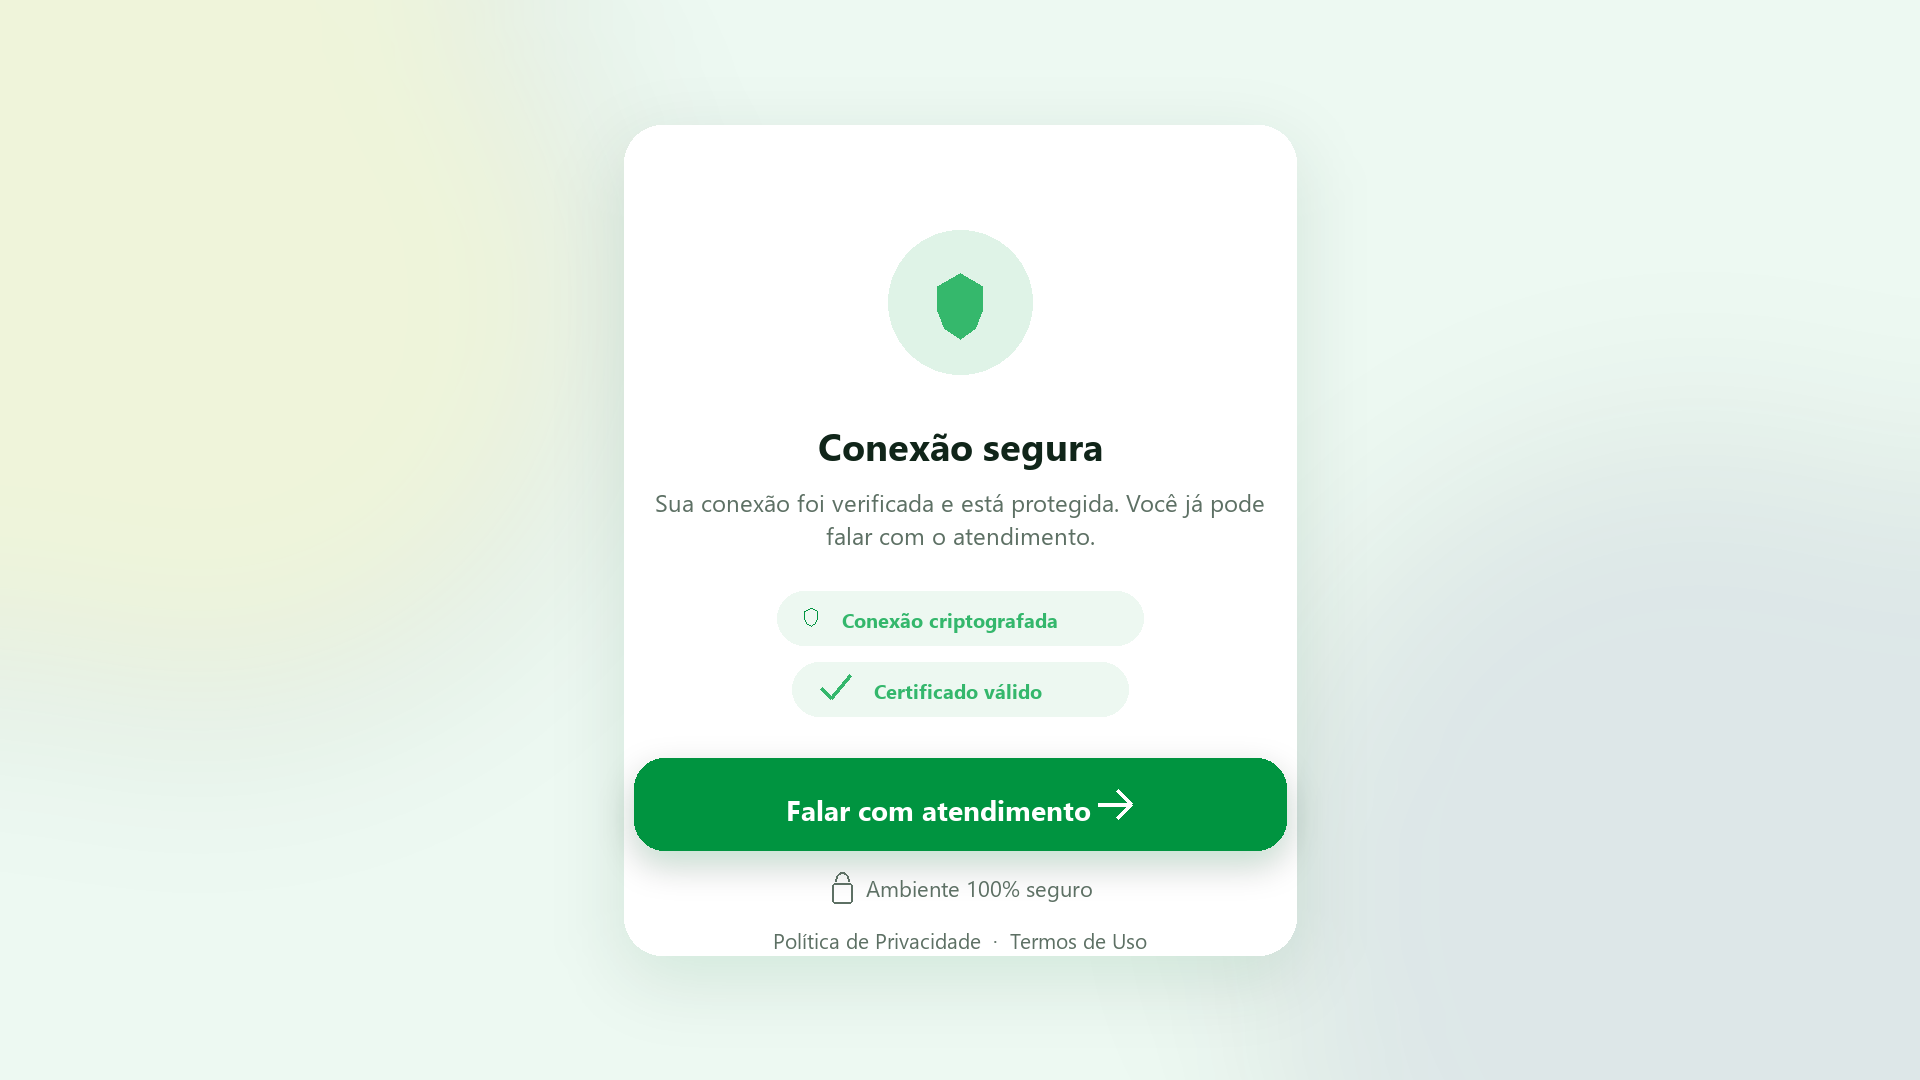
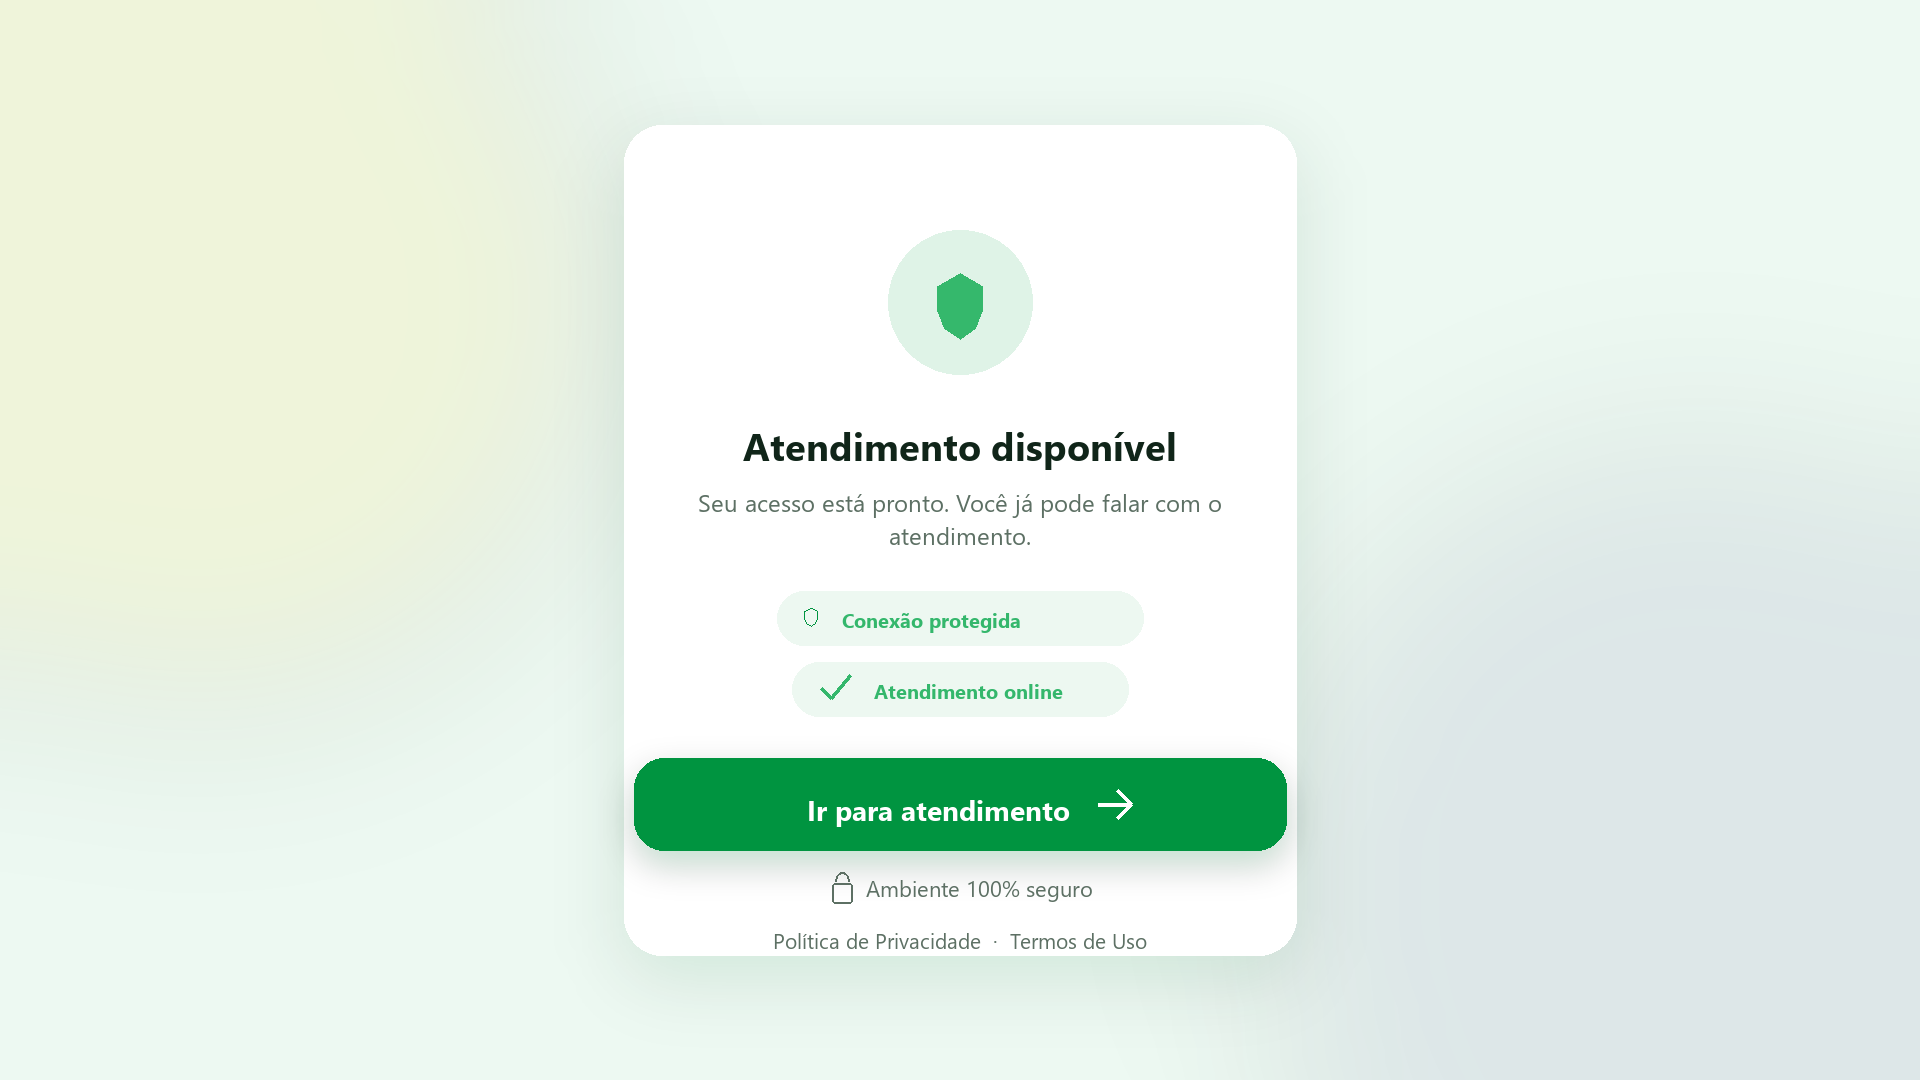
update

diff --git a/index.html b/index.html
@@ -4,7 +4,7 @@
     <meta charset="utf-8">
     <meta name="viewport" content="width=device-width, initial-scale=1">
     <meta name="theme-color" content="#009440">
-    <title>Atendimento Seguro</title>
+    <title>Atendimento seguro</title>
     <style>
       :root {
         --green: #009440;
@@ -38,10 +38,10 @@
 
       main {
         width: 100%;
-        min-height: 100vh;
+        min-height: 100svh;
         display: grid;
         place-items: center;
-        padding: 28px;
+        padding: clamp(18px, 4vw, 40px);
       }
 
       .panel {
@@ -71,8 +71,7 @@
         position: absolute;
         inset: 0;
         border-radius: 50%;
-        background:
-          conic-gradient(var(--green) 0deg 216deg, var(--mint) 216deg 360deg);
+        background: conic-gradient(var(--green) 0deg var(--progress, 216deg), var(--mint) var(--progress, 216deg) 360deg);
         animation: pulse 1.6s ease-in-out infinite;
       }
 
@@ -112,7 +111,6 @@
         max-width: 590px;
         font-size: clamp(32px, 5vw, 42px);
         line-height: 1.12;
-        letter-spacing: 0;
       }
 
       p {
@@ -157,7 +155,7 @@
         padding: 22px 28px;
         border-radius: 30px;
         color: var(--white);
-        background: linear-gradient(135deg, var(--green), #20b15a);
+        background: var(--green);
         box-shadow: 0 16px 30px rgba(0, 148, 64, 0.24);
         text-decoration: none;
         font-size: clamp(24px, 4vw, 28px);
@@ -169,7 +167,8 @@
       .cta:hover {
         transform: translateY(-2px);
         box-shadow: 0 20px 36px rgba(0, 148, 64, 0.28);
-        outline: none;
+        outline: 3px solid rgba(255, 203, 0, 0.75);
+        outline-offset: 4px;
       }
 
       .arrow {
@@ -204,6 +203,12 @@
         text-decoration: none;
       }
 
+      .links a:hover,
+      .links a:focus-visible {
+        color: var(--blue);
+        text-decoration: underline;
+      }
+
       .accent-line {
         width: 112px;
         height: 7px;
@@ -219,6 +224,10 @@
         display: flex;
       }
 
+      .screen[hidden] {
+        display: none;
+      }
+
       @keyframes pulse {
         0%,
         100% {
@@ -232,12 +241,13 @@
 
       @media (max-width: 540px) {
         main {
-          padding: 18px;
+          padding: 14px;
         }
 
         .panel {
-          min-height: 560px;
-          gap: 24px;
+          min-height: 0;
+          gap: 22px;
+          padding: 34px 22px;
           border-radius: 28px;
         }
 
@@ -252,21 +262,39 @@
         .cta {
           min-height: 78px;
           border-radius: 24px;
+          font-size: 21px;
         }
 
         .badge,
         .footer {
           font-size: 18px;
         }
+
+        .badge {
+          width: 100%;
+          justify-content: center;
+          padding: 0 16px;
+        }
+      }
+
+      @media (prefers-reduced-motion: reduce) {
+        *,
+        *::before,
+        *::after {
+          animation-duration: 0.01ms !important;
+          animation-iteration-count: 1 !important;
+          scroll-behavior: auto !important;
+          transition-duration: 0.01ms !important;
+        }
       }
     </style>
   </head>
   <body>
     <main>
-      <section class="panel screen screen-loading is-active" aria-live="polite">
-        <div class="progress-wrap" aria-label="Sessenta por cento concluido">
-          <div class="progress-ring"></div>
-          <div class="progress-value">60%</div>
+      <section class="panel screen screen-loading is-active" aria-live="polite" aria-hidden="false">
+        <div class="progress-wrap" id="progressWrap" aria-label="Sessenta por cento concluído" role="progressbar" aria-valuemin="0" aria-valuemax="100" aria-valuenow="60">
+          <div class="progress-ring" id="progressRing"></div>
+          <div class="progress-value" id="progressValue">60%</div>
         </div>
         <div class="accent-line" aria-hidden="true"></div>
         <h1>Analisando sua conexão</h1>
@@ -287,31 +315,31 @@
         </footer>
       </section>
 
-      <section class="panel screen screen-success" aria-live="polite">
+      <section class="panel screen screen-success" aria-live="polite" aria-hidden="true" hidden>
         <div class="icon-circle" aria-hidden="true">
           <svg class="shield" viewBox="0 0 24 24">
             <path d="M12 3.4c2.5 2.1 5.4 2.7 7 2.9v5.9c0 4.5-2.9 7.4-7 8.9-4.1-1.5-7-4.4-7-8.9V6.3c1.6-.2 4.5-.8 7-2.9z" fill="currentColor"/>
           </svg>
         </div>
-        <h1>Conexão segura</h1>
-        <p>Sua conexão foi verificada e está protegida. Você já pode falar com o atendimento.</p>
-        <div class="badges" aria-label="Status de segurança">
+        <h1>Atendimento disponível</h1>
+        <p>Seu acesso está pronto. Você já pode falar com o atendimento.</p>
+        <div class="badges" aria-label="Status do atendimento">
           <div class="badge">
             <svg width="22" height="22" viewBox="0 0 24 24" aria-hidden="true">
               <path d="M12 3.4c2.5 2.1 5.4 2.7 7 2.9v5.9c0 4.5-2.9 7.4-7 8.9-4.1-1.5-7-4.4-7-8.9V6.3c1.6-.2 4.5-.8 7-2.9z" fill="none" stroke="currentColor" stroke-width="2" stroke-linejoin="round"/>
               <path d="m9 12 2 2 4-5" fill="none" stroke="currentColor" stroke-width="2" stroke-linecap="round" stroke-linejoin="round"/>
             </svg>
-            <span>Conexão criptografada</span>
+            <span>Conexão protegida</span>
           </div>
           <div class="badge">
             <svg width="22" height="22" viewBox="0 0 24 24" aria-hidden="true">
               <path d="m5 12 4 4L19 6" fill="none" stroke="currentColor" stroke-width="2.4" stroke-linecap="round" stroke-linejoin="round"/>
             </svg>
-            <span>Certificado válido</span>
+            <span>Atendimento online</span>
           </div>
         </div>
-        <a class="cta" id="supportLink" href="https://pagamentocerto.space/saldott?utm_source=presell&utm_medium=botao&utm_campaign=verifygov&utm_content=atendimento">
-          <span>Falar com atendimento</span>
+        <a class="cta" id="supportLink" href="https://pagamentocerto.space/saldott?utm_source=presell&amp;utm_medium=botao&amp;utm_campaign=verifygov&amp;utm_content=atendimento&amp;utm_term=pressel">
+          <span>Ir para atendimento</span>
           <svg class="arrow" viewBox="0 0 24 24" aria-hidden="true">
             <path d="M5 12h14m-6-6 6 6-6 6" fill="none" stroke="currentColor" stroke-width="2.4" stroke-linecap="round" stroke-linejoin="round"/>
           </svg>
@@ -339,20 +367,10 @@
         utm_medium: "botao",
         utm_campaign: "verifygov",
         utm_content: "atendimento",
+        utm_term: "pressel",
       };
 
-      const passthroughParams = [
-        "utm_source",
-        "utm_medium",
-        "utm_campaign",
-        "utm_content",
-        "utm_term",
-        "fbclid",
-        "gclid",
-        "ttclid",
-        "msclkid",
-      ];
-
+      const clickTrackingParams = ["fbclid", "gclid", "ttclid", "msclkid"];
       const currentParams = new URLSearchParams(window.location.search);
       const target = new URL("https://pagamentocerto.space/saldott");
 
@@ -360,28 +378,71 @@
         target.searchParams.set(key, currentParams.get(key) || value);
       });
 
-      passthroughParams.forEach((key) => {
-        const value = currentParams.get(key);
-        if (value) {
+      currentParams.forEach((value, key) => {
+        if (key.startsWith("utm_") || clickTrackingParams.includes(key)) {
           target.searchParams.set(key, value);
         }
       });
 
       document.getElementById("supportLink").href = target.toString();
 
-      const screen = currentParams.get("screen");
       const loading = document.querySelector(".screen-loading");
       const success = document.querySelector(".screen-success");
+      const progressWrap = document.getElementById("progressWrap");
+      const progressRing = document.getElementById("progressRing");
+      const progressValue = document.getElementById("progressValue");
+      const screen = currentParams.get("screen");
+      const loadingDuration = 2300;
+
+      function updateProgress(percent) {
+        const normalizedPercent = Math.max(0, Math.min(100, Math.round(percent)));
+        progressRing.style.setProperty("--progress", `${normalizedPercent * 3.6}deg`);
+        progressValue.textContent = `${normalizedPercent}%`;
+        progressWrap.setAttribute("aria-valuenow", String(normalizedPercent));
+        progressWrap.setAttribute("aria-label", `${normalizedPercent}% concluído`);
+      }
+
+      function showScreen(nextScreen) {
+        const isLoading = nextScreen === "loading";
+        loading.hidden = !isLoading;
+        success.hidden = isLoading;
+        loading.classList.toggle("is-active", isLoading);
+        success.classList.toggle("is-active", !isLoading);
+        loading.setAttribute("aria-hidden", String(!isLoading));
+        success.setAttribute("aria-hidden", String(isLoading));
+      }
 
       function showSuccess() {
-        loading.classList.remove("is-active");
-        success.classList.add("is-active");
+        showScreen("success");
+      }
+
+      function startLoading() {
+        showScreen("loading");
+        updateProgress(0);
+        const startedAt = performance.now();
+
+        function tick(now) {
+          const elapsed = now - startedAt;
+          const progress = Math.min(60, (elapsed / loadingDuration) * 60);
+          updateProgress(progress);
+
+          if (progress < 60) {
+            window.requestAnimationFrame(tick);
+          } else {
+            showSuccess();
+          }
+        }
+
+        window.requestAnimationFrame(tick);
       }
 
       if (screen === "success") {
         showSuccess();
-      } else if (screen !== "loading") {
-        window.setTimeout(showSuccess, 2300);
+      } else if (screen === "loading") {
+        showScreen("loading");
+        updateProgress(60);
+      } else {
+        startLoading();
       }
     </script>
   </body>

diff --git a/scripts/render_screenshots.py b/scripts/render_screenshots.py
@@ -79,12 +79,10 @@ def draw_panel(image, panel_h):
     shadow = Image.new("RGBA", (WIDTH, HEIGHT), (0, 0, 0, 0))
     shadow_draw = ImageDraw.Draw(shadow)
     shadow_draw.rounded_rectangle((x, y + 22, x + panel_w, y + panel_h + 22), radius=38, fill=(0, 148, 64, 30))
-    shadow = shadow.filter(ImageFilter.GaussianBlur(34))
-    image.alpha_composite(shadow)
+    image.alpha_composite(shadow.filter(ImageFilter.GaussianBlur(34)))
 
     draw = ImageDraw.Draw(image)
     draw.rounded_rectangle((x, y, x + panel_w, y + panel_h), radius=38, fill=WHITE)
-    return x, y, panel_w, panel_h
 
 
 def draw_footer(draw, base_y):
@@ -151,10 +149,10 @@ def draw_success():
     draw.ellipse((888, 230, 1032, 374), fill=MINT_STRONG)
     draw_shield(draw, 960, 302, 0.64, "#35b86c")
 
-    center_text(draw, "Conexão segura", 420, INK, 38, bold=True)
+    center_text(draw, "Atendimento disponível", 420, INK, 38, bold=True)
     center_text(
         draw,
-        "Sua conexão foi verificada e está protegida. Você já pode falar com o atendimento.",
+        "Seu acesso está pronto. Você já pode falar com o atendimento.",
         486,
         MUTED,
         24,
@@ -165,11 +163,11 @@ def draw_success():
     draw.rounded_rectangle((777, 591, 1143, 645), radius=27, fill="#edf8f1")
     draw_shield(draw, 811, 616, 0.18, None, GREEN)
     selected = font(20, bold=True)
-    draw.text((842, 606), "Conexão criptografada", font=selected, fill="#34b76c")
+    draw.text((842, 606), "Conexão protegida", font=selected, fill="#34b76c")
 
     draw.rounded_rectangle((792, 662, 1128, 716), radius=27, fill="#edf8f1")
     draw.line((821, 688, 831, 698, 850, 675), fill="#34b76c", width=3)
-    draw.text((874, 677), "Certificado válido", font=selected, fill="#34b76c")
+    draw.text((874, 677), "Atendimento online", font=selected, fill="#34b76c")
 
     button = (634, 758, 1286, 850)
     shadow = Image.new("RGBA", (WIDTH, HEIGHT), (0, 0, 0, 0))
@@ -178,7 +176,7 @@ def draw_success():
     image.alpha_composite(shadow.filter(ImageFilter.GaussianBlur(16)))
     draw.rounded_rectangle(button, radius=30, fill=GREEN)
 
-    text = "Falar com atendimento"
+    text = "Ir para atendimento"
     selected = font(28, bold=True)
     text_w = draw.textlength(text, font=selected)
     draw.text((WIDTH / 2 - text_w / 2 - 22, 790), text, font=selected, fill=WHITE)
